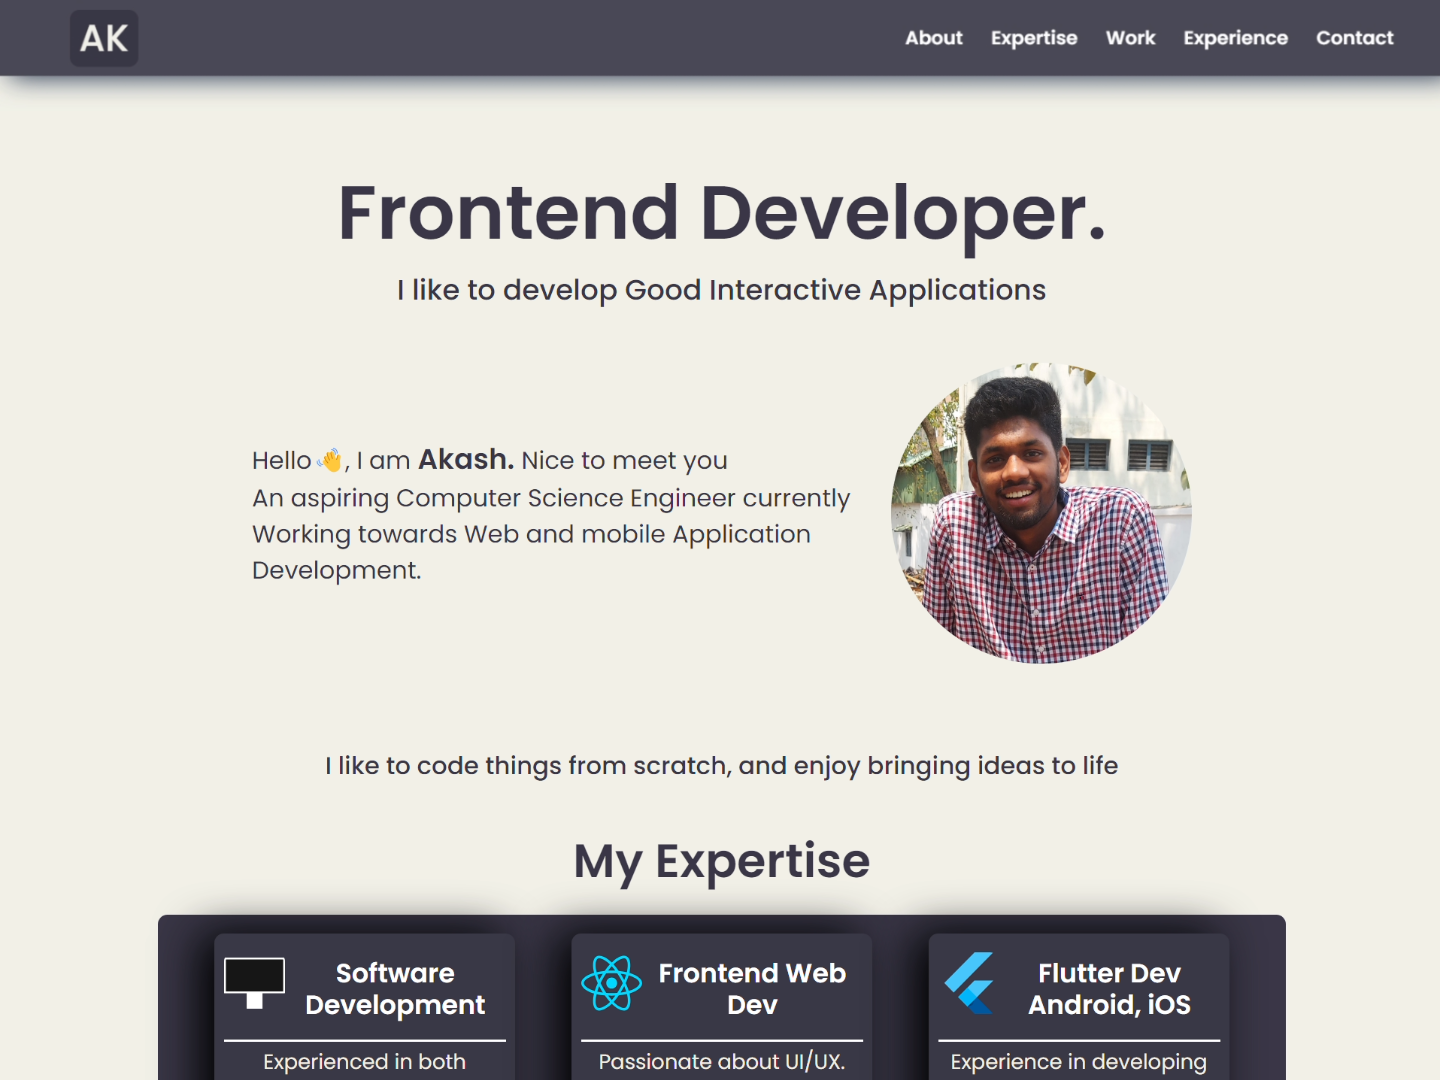
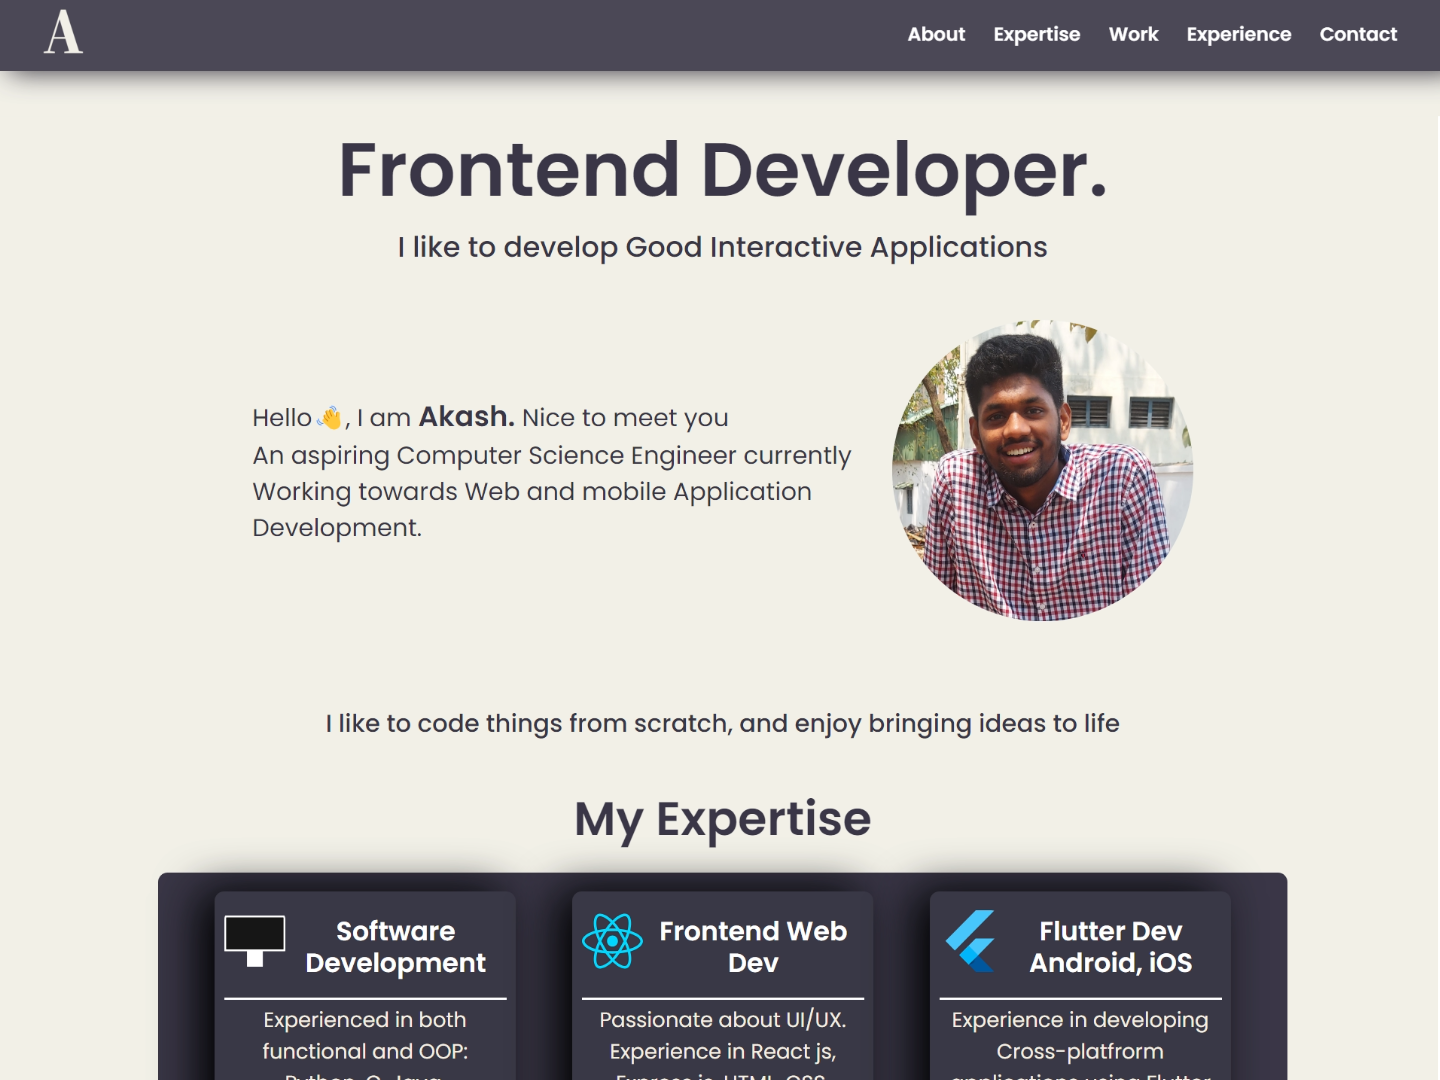
portfolio-project img update

Changed region(s): [[0.1562, 0.1222, 0.8438, 0.6111], [0.0938, 0.6417, 0.9062, 1.0], [0.0, 0.0, 1.0, 0.0917]]

diff --git a/src/components/navbar/nav.jsx b/src/components/navbar/nav.jsx
@@ -13,23 +13,24 @@ function NavBar() {
   };
 
   let prevScrollPos = window.scrollY;
-  window.addEventListener("scroll", function () {
-    const currentScrollPos = window.scrollY;
-    if (prevScrollPos < currentScrollPos) {
-      if (toggle === false){
-        document.querySelector(".nav").classList.add("hide");
+    window.addEventListener("scroll", function () {
+      const currentScrollPos = window.scrollY;
+      if (prevScrollPos < currentScrollPos) {
+        if (toggle === false) {
+          document.querySelector(".nav").classList.add("hide");
+        }
+      } else {
+        document.querySelector(".nav").classList.remove("hide");
       }
-    } else {
-      document.querySelector(".nav").classList.remove("hide");
-    }
 
-    prevScrollPos = currentScrollPos;
-  });
+      prevScrollPos = currentScrollPos;
+    });
+  
 
   return (
     <div className={toggle ? "nav expanded" : "nav"} id="navigator">
-      <a href={"https://www.akashkodali.studio" }>
-      <img src={favicon} alt="logo" className="logo"/>
+      <a href={"https://www.akashkodali.studio"}>
+        <img src={favicon} alt="logo" className="logo" />
       </a>
 
       <div className={"nav-links"}>

diff --git a/src/components/navbar/nav.css b/src/components/navbar/nav.css
@@ -16,14 +16,24 @@
     position: fixed;
     z-index: 99;
     transition: 0.2s linear;
-    box-shadow: 0 10px 30px -10px #112240;
+    box-shadow: 0 10px 30px -10px #2c2935;
     -webkit-backdrop-filter:  blur(15px) brightness(75%) saturate(70%);
     backdrop-filter: blur(15px) brightness(75%) saturate(70%);
 }
 
 .hide{
-    transform: translateY(-80px);
-    transition: 0.2s linear;
+    transform: translateY(-72px);
+    transition: 0.3s linear;
+}
+
+/* .hide:hover{
+    transform: translateY(0px);
+    transition: 0.3s linear;
+} */
+
+.nav.expanded:hover{
+    transform: translateY(0px);
+    transition: 0.3s linear;
 }
 
 .nav .logo{
@@ -109,7 +119,8 @@
 
     .nav.expanded{
         height: 100vh;
-        transition: 100vh 0.5s linear;
+        transition: height 500ms;
+        overflow-y: hidden;
     }
 
     .nav.expanded .nav-links{

diff --git a/src/pages/Projects.jsx b/src/pages/Projects.jsx
@@ -50,7 +50,8 @@ export const Projects = () => {
             img={Weatherimg}
             title={"Weather Application"}
             desc={
-              "A Real-time weather Application which can be used to obtain real time weather and 7-week forecast data for specified locations."
+              // A Real-time weather Application which can be used to obtain real time weather and 7-week forecast data for specified locations. 
+              "A real-time weather application which provides current weather information and a comprehensive 7-week forecast for specified location. Users can easily access current conditions, temperature, humidity, wind speed etc."
             }
             link={"https://akodali9.github.io/weather_application/"}
             type={"Web Development"}

diff --git a/src/App.jsx b/src/App.jsx
@@ -37,7 +37,7 @@ function App() {
           </section>
           {/* <section id="edu">
         <Edu />
-      </section> */}
+      // </section> */}
           <section
             id="contact"
             style={{ backgroundColor: "hsla(0, 0%, 70%, 0.314", }}

diff --git a/src/index.css b/src/index.css
@@ -17,10 +17,11 @@ code {
 }
 
 ::-webkit-scrollbar {
-  background: transparent;
-  width: 4px;
+  background: rgba(57, 54, 70, 0.60);
+  width: 8px;
 }
 
 ::-webkit-scrollbar-thumb {
-  background: #a8b2d190;
+  background: #2c2a36 ;
+  border-radius: 20px;
 }

diff --git a/src/pages/css/About.css b/src/pages/css/About.css
@@ -48,7 +48,7 @@
 
 .main .details .top-block .title{
     /* font-size: 45px; */
-    font-size: clamp(40px, 8vw, 80px);
+    font-size: clamp(40px, 8.5vw, 80px);
     font-weight: 600;
     color: #ccd6f6;
     color: #393646;

diff --git a/src/pages/Education.jsx b/src/pages/Education.jsx
@@ -1,6 +1,6 @@
 import "./css/edu.css"
 
-export const Edu= () => {
+export const Edu = () => {
     return(
         <div className="edubody">
         <p className="headingS">Education</p>
